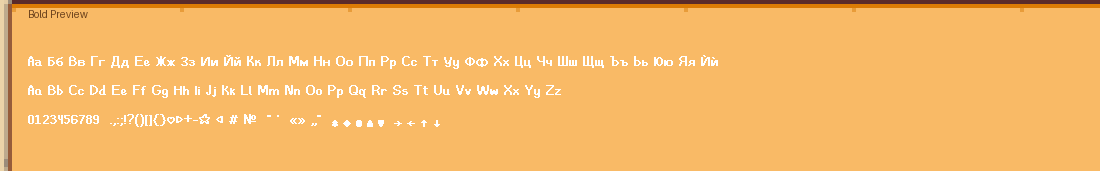
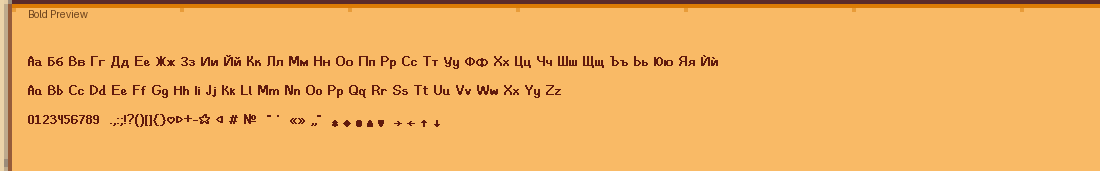
Tighten README and refresh preview images

Changed region(s): [[0.0, 0.3216, 0.6491, 0.4094], [0.0, 0.4971, 0.5255, 0.5556], [0.0, 0.6725, 0.4018, 0.7602]]

diff --git a/README.md b/README.md
@@ -1,116 +1,49 @@
 # Stardew Official Cyrillic Project
 
-Goal: build a public, documented, Bulgarian-complete Stardew Valley font family and asset pipeline based on the game's official-style font assets.
+Community reconstruction of a Stardew Valley-style font family with Bulgarian-complete Cyrillic support.
 
-## Licensing
+## License
 
-This repository uses a split approach:
+- `LICENSE-CODE` covers the scripts and documentation in this project.
+- `ASSET-NOTICE.md` covers game-derived assets and derivative bitmap/font materials.
 
-- `LICENSE-CODE` applies to the original scripts and documentation in this project.
-- `ASSET-NOTICE.md` applies to game-derived assets and derivative bitmap/font materials.
+## Included
 
-Do not treat the whole repository as if it were fully MIT-licensed.
+- `Regular`, `Bold`, and `Italic` installable TTF files
+- glyph PNG sources for further editing
+- generated `Cyrillic.fnt` test output
+- build scripts for family assembly, BMFont generation, preview rendering, and packaging
 
-## Current state
+## Toolchain
 
-- A reusable public font family now exists in three styles:
-  - `Regular`
-  - `Bold`
-  - `Italic`
-- The family is assembled under `font-family-work/` and can be installed for typing tests.
-- A generated bold `Cyrillic.fnt` / `Cyrillic_0.png` test build now exists and is suitable for in-game comparison.
-- `SmallFont.xnb` and `SpriteFont1.xnb` are now being regenerated from the same `Regular` family source, using the vanilla `ru-RU` SpriteFont templates as structural references.
-- Glyph preview sheets are generated so other contributors can inspect and extend the glyph set more easily.
+This project uses [bmfont_studio](https://github.com/AcTePuKc/bmfont_studio).
 
-## Tooling
-
-This project uses `bmfont_studio` / `BMFont-Python` as the main bitmap font generation toolchain:
-
-- [bmfont_studio](https://github.com/AcTePuKc/bmfont_studio)
-
-Some scripts in this repository expect that toolchain to be available locally, either via:
+Some scripts expect the toolchain to be available through:
 
 - `BMFONT_PYTHON_ROOT`
 - a local `BMFont-Python` checkout
 - a sibling `BMFont-Python` folder next to this repository
 
-## Public metadata policy
+## Main folders
 
-Generated family fonts use:
-
-- `Manufacturer`: `Stardew Official Cyrillic Project`
-- `Designer/Foundry`: `Bitmap reconstruction and Bulgarian Cyrillic extension for Stardew Valley (Latin, Cyrillic, UI symbols)`
-
-The goal is to describe the work as a community font reconstruction project rather than as a tool-generated prototype.
-
-## Main outputs
-
-### Installable font family
-
-Located in `font-family-work/`:
-
-- `StardewValleyOfficialCyrillicBG-Regular.ttf`
-- `StardewValleyOfficialCyrillicBG-Bold.ttf`
-- `StardewValleyOfficialCyrillicBG-Italic.ttf`
-
-These are separate files, but they are also assembled as a single font family for operating system and design-tool use.
-
-### Game font assets
-
-Current generated test outputs include:
-
-- large `Cyrillic.fnt` / `Cyrillic_0.png`
-- `SmallFont.xnb`
-- `SpriteFont1.xnb`
-
-These are all derived from the same reconstructed source family, but each game layer still needs its own size and atlas tuning.
-
-## Source references
-
-### Large BMFont layer
-
-- `source-assets/Russian.fnt`
-- `source-assets/Russian_0.png`
-- `source-assets/font_bold.png`
-- `source-assets/font_colored.png`
-
-### SpriteFont / XNB layer
-
-- `source-assets/SmallFont.ru-RU.json`
-- `source-assets/SmallFont.ru-RU.png`
-- `source-assets/SpriteFont1.ru-RU.json`
-- `source-assets/SpriteFont1.ru-RU.png`
-
-Important finding:
-
-- `SmallFont.ru-RU.json` and `SpriteFont1.ru-RU.json` are identical in the inspected vanilla assets
-- `SmallFont.ru-RU.png` and `SpriteFont1.ru-RU.png` are also identical
-
-## Folder guide
-
-- `source-assets/`
-  Local-only reference area for vanilla extracted font assets, if you want to regenerate some game-facing outputs yourself.
 - `build-scripts/`
-  Reproducible build, packaging, assembly, and preview scripts.
-- `russian-bg-work/`
-  Regular-font glyph source, metadata, and prototype outputs.
-- `russian-bg-bold-work/`
-  Bold-font glyph source, metadata, and prototype outputs.
-- `russian-bg-italic-work/`
-  Italic-font glyph source, metadata, and prototype outputs.
 - `font-family-work/`
-  Assembled `Regular/Bold/Italic` family files and current game-asset generation outputs.
+- `russian-bg-work/`
+- `russian-bg-bold-work/`
+- `russian-bg-italic-work/`
 - `final-build/`
-  Final-ish public-facing artifacts such as glyph previews.
-- `notes/`
-  Coverage notes, forensic findings, limitations, and roadmap.
+- `source-assets/`
 
-## Glyph preview assets
+## Previews
 
-To make future extension easier, the project generates contact sheets for the current glyph sets:
+### Regular
 
-- `final-build/glyph-previews/regular_glyph_contact_sheet.png`
-- `final-build/glyph-previews/bold_glyph_contact_sheet.png`
-- `final-build/glyph-previews/italic_glyph_contact_sheet.png`
+![Regular Preview](final-build/glyph-previews/regular_glyph_preview.png)
 
-These are intended as a contributor aid, so people can quickly inspect what exists and what still needs cleanup or extension.
+### Bold
+
+![Bold Preview](final-build/glyph-previews/bold_glyph_preview.png)
+
+### Italic
+
+![Italic Preview](final-build/glyph-previews/italic_glyph_preview.png)